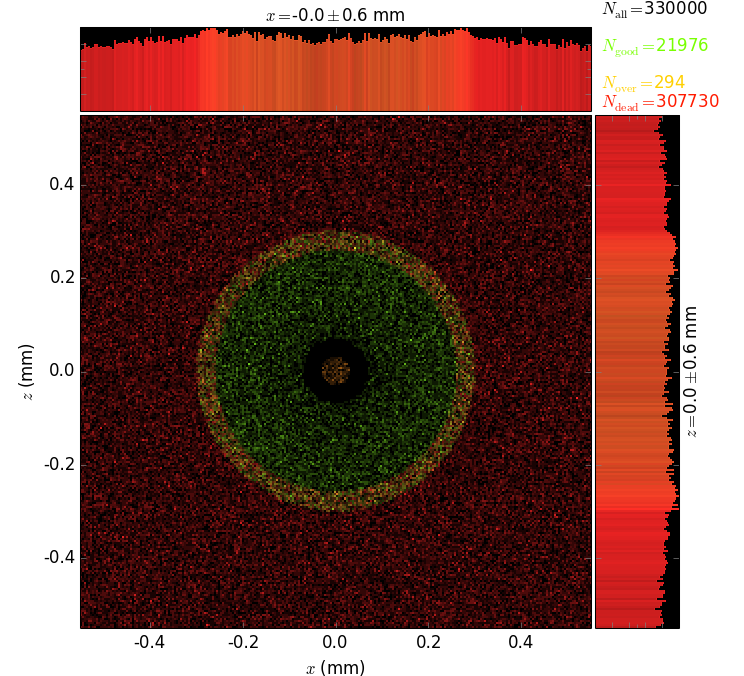
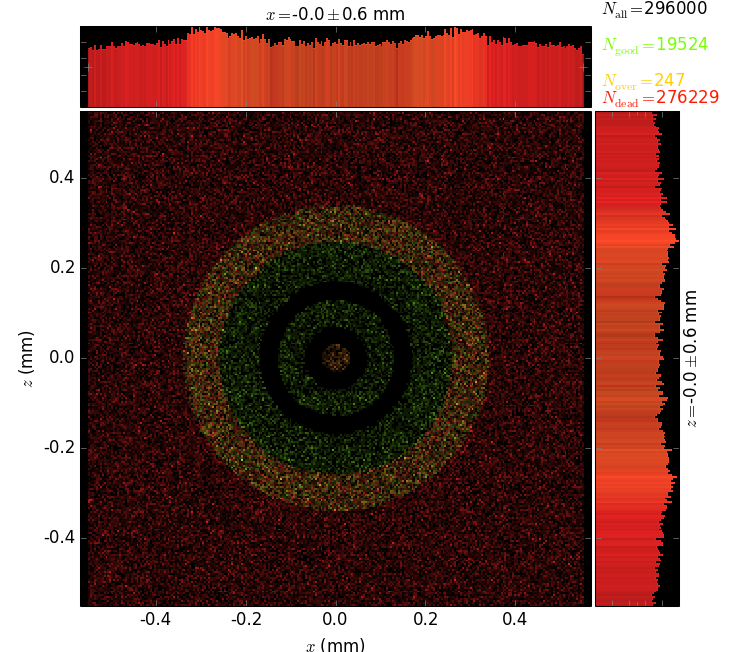
One more reflection
picture doesn't seem to agree with theory?
d = 120mm

diff --git a/simplfiedMonoCapillary.py b/simplfiedMonoCapillary.py
@@ -34,7 +34,7 @@ wall = 0.02
 plot2D_yLim = [-0.05, 0.05]
 plot_main_lim = 0.55 # min 2*r0 for capillary entrance imaging
 layers = 10 # number of hexagonal layers
-nRefl = 0 # number of reflections
+nRefl = 1 # number of reflections
 nReflDisp = 12 # unused
 xzPrimeMax = 3.
 
